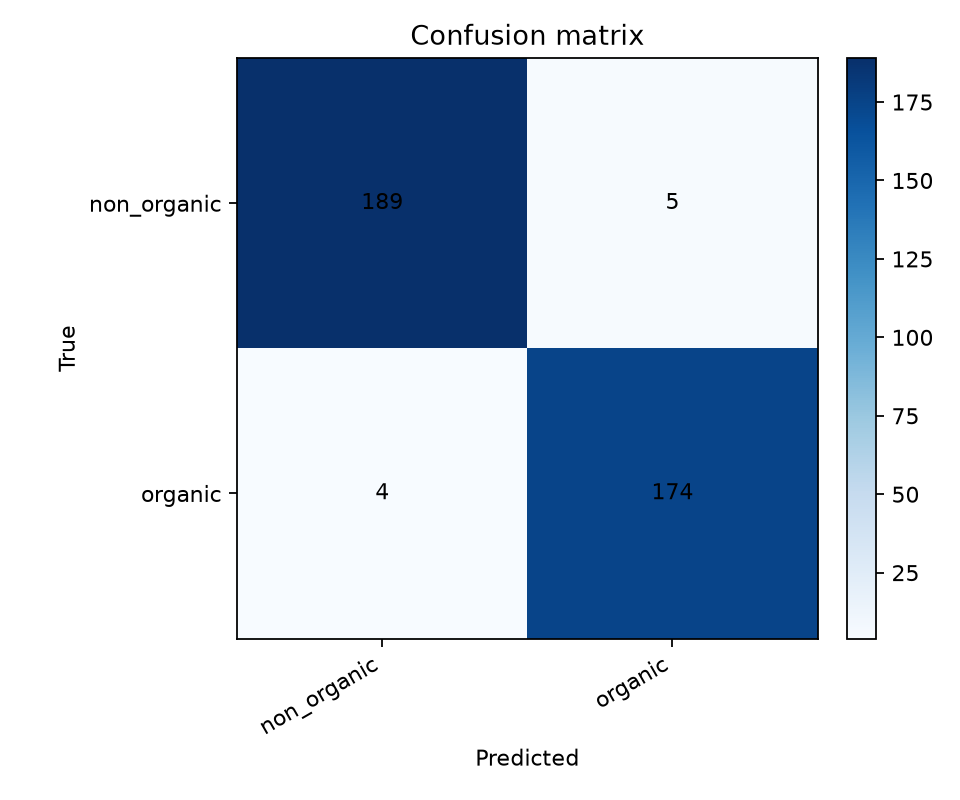
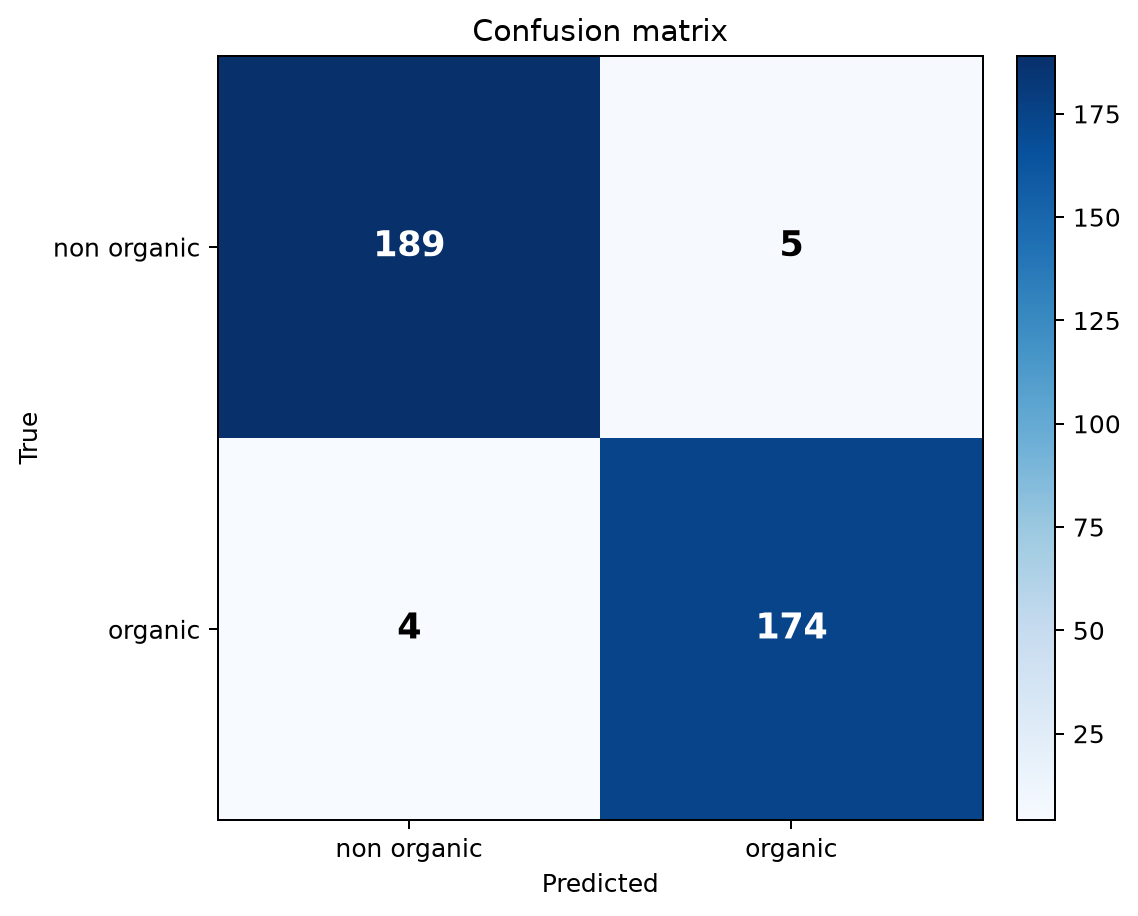
Update training model script to save accuracy plot and add confusion matrix image
Enhance the training model script by saving the training accuracy plot as "training_accuracy.png" for presentation purposes. Additionally, update the confusion matrix image in the evaluation results directory.

diff --git a/waste_classification/plot_metrics.py b/waste_classification/plot_metrics.py
@@ -1,0 +1,213 @@
+"""
+Viva / presentation charts for the waste classification model.
+
+Reads the held-out test metrics already written by evaluate_all.py and
+saves PNG bar charts + a confusion-matrix heatmap.
+
+Usage (from repo root R26-IT-084):
+    python waste_classification/plot_metrics.py
+"""
+
+from __future__ import annotations
+
+import csv
+from pathlib import Path
+
+import matplotlib.pyplot as plt
+import numpy as np
+
+ROOT = Path(__file__).resolve().parents[1]
+EVAL_DIR = ROOT / "evaluation_results"
+SUMMARY_CSV = EVAL_DIR / "summary.csv"
+PER_CLASS_CSV = EVAL_DIR / "waste_per_class.csv"
+CONFUSION_CSV = EVAL_DIR / "waste_confusion_matrix.csv"
+
+# Slide-friendly colours (organic = green, non-organic = sky, overall = navy)
+COLOR_ACCURACY = "#1d4ed8"
+COLOR_PRECISION = "#0ea5e9"
+COLOR_RECALL = "#22c55e"
+COLOR_F1 = "#16a34a"
+COLOR_NON_ORGANIC = "#0284c7"
+COLOR_ORGANIC = "#16a34a"
+
+
+def _to_percent(value: float) -> float:
+    """sklearn scores are 0-1; accuracy in summary.csv is already 0-100."""
+    return value * 100.0 if value <= 1.0 else value
+
+
+def load_overall_metrics() -> dict[str, float]:
+    """Accuracy + organic precision/recall/F1 from summary.csv."""
+    metrics: dict[str, float] = {}
+    with SUMMARY_CSV.open(encoding="utf-8") as f:
+        for row in csv.DictReader(f):
+            if row["model"] != "waste_mobilenetv2":
+                continue
+            if row["class_name"]:
+                continue
+            key = row["metric"]
+            if key in {"accuracy", "precision_organic", "recall_organic", "f1_organic", "test_images"}:
+                metrics[key] = float(row["value"])
+    return metrics
+
+
+def load_per_class_metrics() -> list[dict[str, float | str]]:
+    """Precision, recall, F1, support for each waste class."""
+    rows: list[dict[str, float | str]] = []
+    with PER_CLASS_CSV.open(encoding="utf-8") as f:
+        for row in csv.DictReader(f):
+            rows.append(
+                {
+                    "class": row["class"],
+                    "precision": _to_percent(float(row["precision"])),
+                    "recall": _to_percent(float(row["recall"])),
+                    "f1": _to_percent(float(row["f1-score"])),
+                    "support": float(row["support"]),
+                }
+            )
+    return rows
+
+
+def load_confusion_matrix() -> tuple[list[str], np.ndarray]:
+    """2x2 counts: rows = true class, columns = predicted class."""
+    with CONFUSION_CSV.open(encoding="utf-8") as f:
+        reader = csv.reader(f)
+        header = next(reader)
+        labels = header[1:]
+        matrix = np.array([[int(x) for x in row[1:]] for row in reader], dtype=int)
+    return labels, matrix
+
+
+def _annotate_bars(ax, bars, values: list[float], fmt: str = "{:.2f}%") -> None:
+    for bar, value in zip(bars, values):
+        ax.text(
+            bar.get_x() + bar.get_width() / 2,
+            bar.get_height() + 0.8,
+            fmt.format(value),
+            ha="center",
+            va="bottom",
+            fontsize=9,
+            fontweight="bold",
+        )
+
+
+def plot_overall(ax, overall: dict[str, float]) -> None:
+    labels = ["Accuracy", "Precision\n(organic)", "Recall\n(organic)", "F1\n(organic)"]
+    values = [
+        overall["accuracy"],
+        _to_percent(overall["precision_organic"]),
+        _to_percent(overall["recall_organic"]),
+        _to_percent(overall["f1_organic"]),
+    ]
+    colors = [COLOR_ACCURACY, COLOR_PRECISION, COLOR_RECALL, COLOR_F1]
+    bars = ax.bar(labels, values, color=colors, width=0.62, zorder=3)
+    ax.set_ylim(0, 110)
+    ax.set_ylabel("Score (%)")
+    n = int(overall.get("test_images", 372))
+    ax.set_title(f"Overall test metrics  (n = {n})")
+    ax.yaxis.grid(True, linestyle="--", alpha=0.35, zorder=0)
+    ax.set_axisbelow(True)
+    _annotate_bars(ax, bars, values)
+
+
+def plot_per_class(ax, per_class: list[dict[str, float | str]]) -> None:
+    names = [str(r["class"]).replace("_", "\n") for r in per_class]
+    precision = [float(r["precision"]) for r in per_class]
+    recall = [float(r["recall"]) for r in per_class]
+    f1 = [float(r["f1"]) for r in per_class]
+
+    x = np.arange(len(names))
+    width = 0.25
+    b1 = ax.bar(x - width, precision, width, label="Precision", color=COLOR_PRECISION, zorder=3)
+    b2 = ax.bar(x, recall, width, label="Recall", color=COLOR_RECALL, zorder=3)
+    b3 = ax.bar(x + width, f1, width, label="F1-score", color=COLOR_F1, zorder=3)
+
+    ax.set_xticks(x)
+    ax.set_xticklabels(names)
+    ax.set_ylim(0, 110)
+    ax.set_ylabel("Score (%)")
+    ax.set_title("Per-class precision, recall, F1")
+    ax.legend(frameon=False, loc="lower right")
+    ax.yaxis.grid(True, linestyle="--", alpha=0.35, zorder=0)
+    ax.set_axisbelow(True)
+    for bars, values in ((b1, precision), (b2, recall), (b3, f1)):
+        _annotate_bars(ax, bars, values, "{:.1f}")
+
+
+def plot_confusion(ax, labels: list[str], matrix: np.ndarray) -> None:
+    im = ax.imshow(matrix, cmap="Blues")
+    ax.set_xticks(range(len(labels)))
+    ax.set_yticks(range(len(labels)))
+    pretty = [name.replace("_", " ") for name in labels]
+    ax.set_xticklabels(pretty)
+    ax.set_yticklabels(pretty)
+    ax.set_xlabel("Predicted")
+    ax.set_ylabel("True")
+    ax.set_title("Confusion matrix")
+    vmax = int(matrix.max())
+    for i in range(matrix.shape[0]):
+        for j in range(matrix.shape[1]):
+            count = int(matrix[i, j])
+            ax.text(
+                j,
+                i,
+                str(count),
+                ha="center",
+                va="center",
+                color="white" if count > vmax * 0.55 else "black",
+                fontsize=14,
+                fontweight="bold",
+            )
+    plt.colorbar(im, ax=ax, fraction=0.046, pad=0.04)
+
+
+def save_figure(fig, name: str) -> Path:
+    EVAL_DIR.mkdir(parents=True, exist_ok=True)
+    path = EVAL_DIR / name
+    fig.savefig(path, dpi=180, bbox_inches="tight", facecolor="white")
+    plt.close(fig)
+    return path
+
+
+def main() -> None:
+    overall = load_overall_metrics()
+    per_class = load_per_class_metrics()
+    labels, matrix = load_confusion_matrix()
+
+    # --- Slide-ready combined figure ---
+    fig, axes = plt.subplots(1, 3, figsize=(16.5, 5.2))
+    plot_overall(axes[0], overall)
+    plot_per_class(axes[1], per_class)
+    plot_confusion(axes[2], labels, matrix)
+    fig.suptitle(
+        "Waste Classification (MobileNetV2) — held-out test set",
+        fontsize=14,
+        fontweight="bold",
+        y=1.02,
+    )
+    fig.tight_layout()
+    combined = save_figure(fig, "waste_viva_metrics.png")
+
+    # --- Separate PNGs if you want one chart per slide ---
+    fig, ax = plt.subplots(figsize=(7.2, 4.8))
+    plot_overall(ax, overall)
+    fig.tight_layout()
+    overall_path = save_figure(fig, "waste_overall_metrics.png")
+
+    fig, ax = plt.subplots(figsize=(7.2, 4.8))
+    plot_per_class(ax, per_class)
+    fig.tight_layout()
+    per_class_path = save_figure(fig, "waste_per_class_metrics.png")
+
+    fig, ax = plt.subplots(figsize=(6.2, 5.2))
+    plot_confusion(ax, labels, matrix)
+    fig.tight_layout()
+    confusion_path = save_figure(fig, "waste_confusion_matrix.png")
+
+    print("Saved:")
+    for path in (combined, overall_path, per_class_path, confusion_path):
+        print(f"  {path}")
+
+
+if __name__ == "__main__":
+    main()

diff --git a/waste_classification/train_model.py b/waste_classification/train_model.py
@@ -218,7 +218,8 @@ model.save("waste_classification_model.h5")
 
 print("\nModel saved successfully!")
 
-# Plot accuracy graph
+# Plot accuracy graph (also saved so it can be used in slides / viva)
+plt.figure(figsize=(7.2, 4.8))
 plt.plot(history.history['accuracy'], label='Train Accuracy')
 plt.plot(history.history['val_accuracy'], label='Validation Accuracy')
 
@@ -226,5 +227,6 @@ plt.xlabel('Epoch')
 plt.ylabel('Accuracy')
 plt.legend()
 plt.title('Training Accuracy')
-
+plt.tight_layout()
+plt.savefig("training_accuracy.png", dpi=180)
 plt.show()
